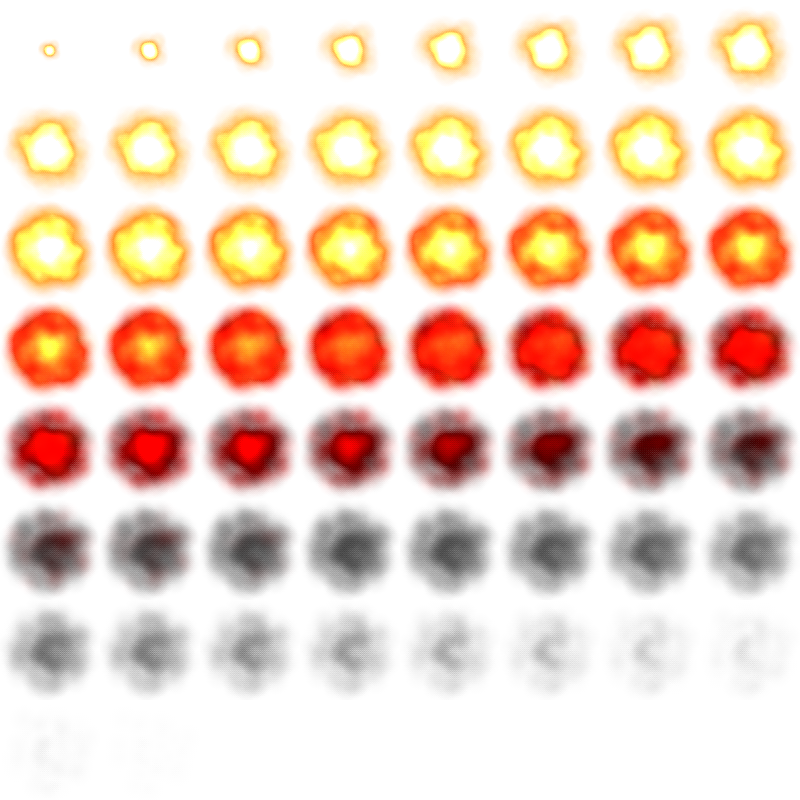
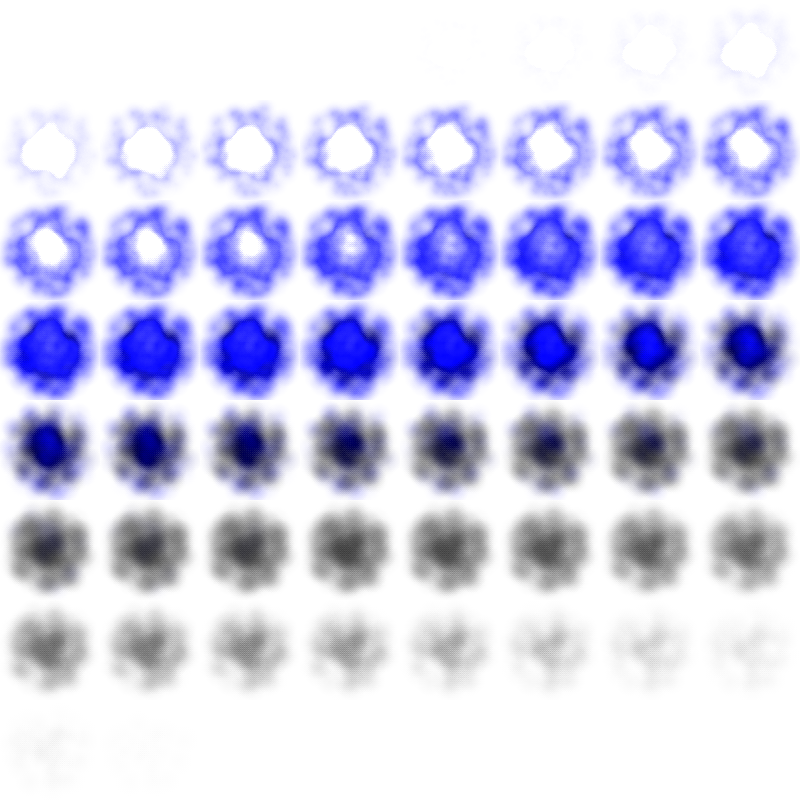
explode

diff --git a/assets/raw/exp.html b/assets/raw/exp.html
@@ -25,9 +25,9 @@ var fireParticle = {
     /** 生成個数 */
     generate: {
         /** 初期生成個数 */
-        initial: 70,
+        initial: 90,
         /** 減衰率 */
-        rate: 0.9,
+        rate: 0.8,
     },
     /** パーティクル初期値 */
     initial: {
@@ -36,16 +36,16 @@ var fireParticle = {
         /** 半径 */
         radius: 2,
         /** 中心色 */
-        colorCenter:  { r: 255, g: 255, b: 200, a: 0.1 },
+        colorCenter:  { r: 255, g: 255, b: 255, a: 0.1 },
         /** 外縁色 */
-        colorOuterEdge: { r: 255, g: 128, b:   0, a: 0.0 },
+        colorOuterEdge: { r: 255, g: 255, b: 255, a: 0.0 },
     },
     /** 変化 */
     transition: {
         /** 位置(中心からの距離) */
         position: {
             /** 最終値 */
-            finalValue: [2, 40], // 値に配列を指定した場合はv[0]～v[1]間のランダムな値
+            finalValue: [4, 45], // 値に配列を指定した場合はv[0]～v[1]間のランダムな値
             /** フレーム数 */
             duration: 10,
             /** イージング関数 */
@@ -59,15 +59,15 @@ var fireParticle = {
         },
         /** 中心色 */
         colorCenter: {
-            g: {
+            r: {
                 finalValue: 0,
-                duration: 20,
+                duration: 10,
                 easeFunc: "easeInExpo",
             },
-            b: {
+            g: {
                 finalValue: 0,
-                duration: 20,
-                easeFunc: "easeInQuad",
+                duration: 10,
+                easeFunc: "easeInExpo",
             },
             a: {
                 finalValue: 0,
@@ -77,6 +77,11 @@ var fireParticle = {
         },
         /** 外縁色 */
         colorOuterEdge: {
+            r: {
+                finalValue: 0,
+                duration: 20,
+                easeFunc: "easeInExpo",
+            },
             g: {
                 finalValue: 0,
                 duration: 20,
@@ -98,7 +103,7 @@ var smokeParticle = {
         initial: 35,
     },
     initial: {
-        position: [ 3, 25 ],
+        position: [ 10, 25 ],
         radius: 5,
         colorCenter:  { r: 0, g: 0, b: 0, a: 0.05 },
         colorOuterEdge: { r: 0, g: 0, b: 0, a: 0.00 },
